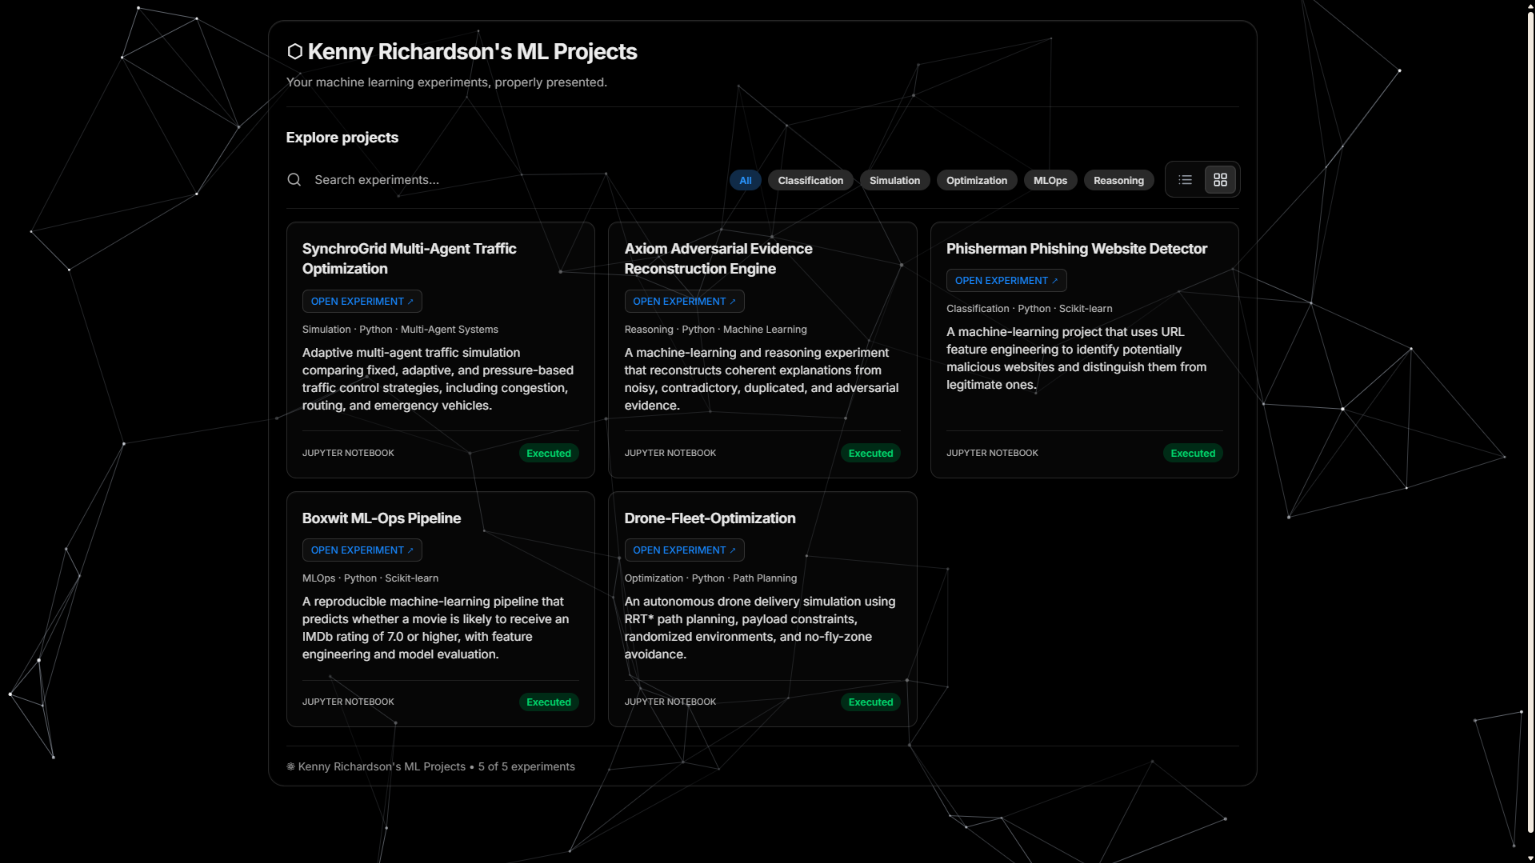
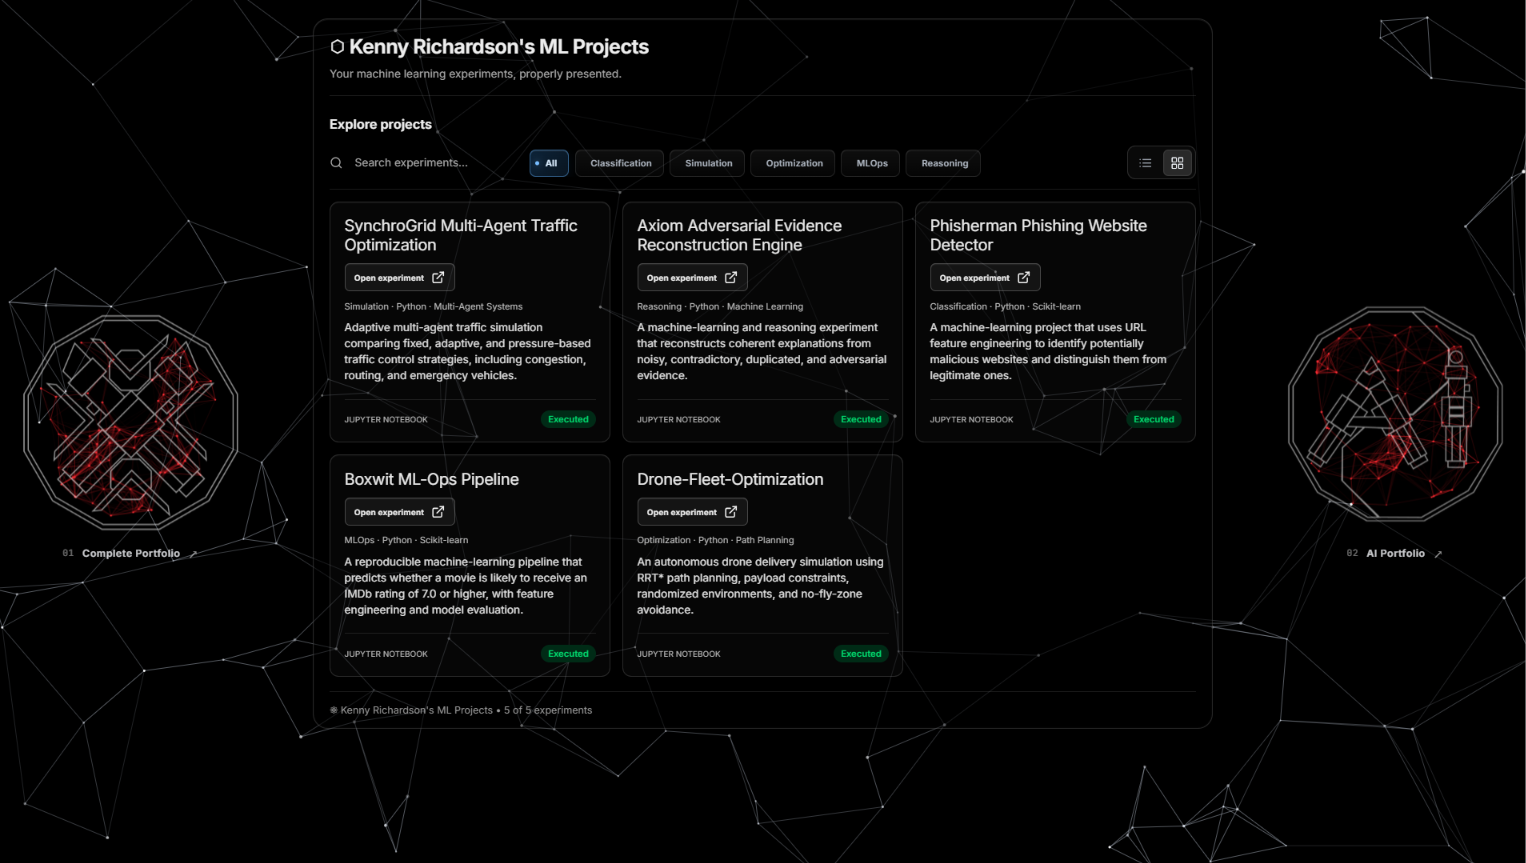
feat: implemented cross-linking

diff --git a/src/NeuralLink.tsx b/src/NeuralLink.tsx
@@ -1,0 +1,229 @@
+import { useEffect, useRef } from "react";
+import { motion } from "framer-motion";
+
+type NeuralLinkProps = {
+  href: string;
+  label: string;
+  index: string;
+  image: string;
+  side: "left" | "right";
+};
+
+type Particle = {
+  x: number;
+  y: number;
+  vx: number;
+  vy: number;
+  radius: number;
+  phase: number;
+};
+
+const RED = "#ff2028";
+
+export function NeuralLink({ href, label, index, image, side }: NeuralLinkProps) {
+  const canvasRef = useRef<HTMLCanvasElement>(null);
+
+  useEffect(() => {
+    const canvas = canvasRef.current;
+    const host = canvas?.parentElement;
+    const context = canvas?.getContext("2d");
+    if (!canvas || !host || !context) return;
+
+    let width = 1;
+    let height = 1;
+    let pixelRatio = 1;
+    let particles: Particle[] = [];
+    let frame = 0;
+    let previous = 0;
+    let elapsed = 0;
+    let disposed = false;
+    const reducedMotion = window.matchMedia("(prefers-reduced-motion: reduce)");
+
+    const random = (min: number, max: number) => min + Math.random() * (max - min);
+
+    const resize = () => {
+      const bounds = host.getBoundingClientRect();
+      width = Math.max(1, bounds.width);
+      height = Math.max(1, bounds.height);
+      pixelRatio = Math.min(window.devicePixelRatio || 1, 1.6);
+      canvas.width = Math.round(width * pixelRatio);
+      canvas.height = Math.round(height * pixelRatio);
+      canvas.style.width = `${width}px`;
+      canvas.style.height = `${height}px`;
+
+      const count = Math.max(64, Math.min(160, Math.round((width * height) / 700)));
+      const radius = Math.min(width, height) * 0.465;
+      const centerX = width / 2;
+      const centerY = height / 2;
+      const vertices = Array.from({ length: 12 }, (_, i) => {
+        const angle = -Math.PI / 2 + (i * Math.PI * 2) / 12;
+        return {
+          x: centerX + Math.cos(angle) * radius,
+          y: centerY + Math.sin(angle) * radius,
+        };
+      });
+
+      const isInside = (x: number, y: number) =>
+        vertices.every((a, i) => {
+          const b = vertices[(i + 1) % vertices.length];
+          return (b.x - a.x) * (y - a.y) - (b.y - a.y) * (x - a.x) >= 0;
+        });
+
+      const randomPoint = () => {
+        let x = centerX;
+        let y = centerY;
+        do {
+          x = random(centerX - radius, centerX + radius);
+          y = random(centerY - radius, centerY + radius);
+        } while (!isInside(x, y));
+        return { x, y };
+      };
+
+      particles = Array.from({ length: count }, () => {
+        const angle = random(0, Math.PI * 2);
+        const speed = random(2, 5.5);
+        const point = randomPoint();
+        return {
+          ...point,
+          vx: Math.cos(angle) * speed,
+          vy: Math.sin(angle) * speed,
+          radius: random(0.55, 1.15),
+          phase: random(0, Math.PI * 2),
+        };
+      });
+    };
+
+    const draw = (time: number) => {
+      if (disposed) return;
+      const delta = previous ? Math.min((time - previous) / 1000, 0.035) : 0;
+      previous = time;
+      elapsed += delta;
+
+      if (!reducedMotion.matches) {
+        const radius = Math.min(width, height) * 0.465;
+        const centerX = width / 2;
+        const centerY = height / 2;
+        const vertices = Array.from({ length: 12 }, (_, i) => {
+          const angle = -Math.PI / 2 + (i * Math.PI * 2) / 12;
+          return {
+            x: centerX + Math.cos(angle) * radius,
+            y: centerY + Math.sin(angle) * radius,
+          };
+        });
+
+        for (const p of particles) {
+          const previousX = p.x;
+          const previousY = p.y;
+          p.x += p.vx * delta;
+          p.y += p.vy * delta;
+
+          // Keep every particle inside the twelve equal sides without drawing
+          // a polygon, border, mask, or decorative layer over the network.
+          for (let i = 0; i < vertices.length; i++) {
+            const a = vertices[i];
+            const b = vertices[(i + 1) % vertices.length];
+            const edgeX = b.x - a.x;
+            const edgeY = b.y - a.y;
+            const side = edgeX * (p.y - a.y) - edgeY * (p.x - a.x);
+
+            if (side < p.radius * Math.hypot(edgeX, edgeY)) {
+              p.x = previousX;
+              p.y = previousY;
+              const normalLength = Math.hypot(edgeX, edgeY) || 1;
+              const nx = -edgeY / normalLength;
+              const ny = edgeX / normalLength;
+              const velocityAlongNormal = p.vx * nx + p.vy * ny;
+              p.vx -= 2 * velocityAlongNormal * nx;
+              p.vy -= 2 * velocityAlongNormal * ny;
+              break;
+            }
+          }
+        }
+      }
+
+      context!.setTransform(pixelRatio, 0, 0, pixelRatio, 0, 0);
+      context!.clearRect(0, 0, width, height);
+
+      const maxDistance = Math.min(width, height) * 0.24;
+      context!.lineWidth = 0.82;
+      context!.lineCap = "round";
+      for (let i = 0; i < particles.length; i++) {
+        const a = particles[i];
+        let links = 0;
+        for (let j = i + 1; j < particles.length; j++) {
+          const b = particles[j];
+          const dx = a.x - b.x;
+          const dy = a.y - b.y;
+          const distance = Math.hypot(dx, dy);
+          if (distance < maxDistance && links < 9) {
+            const alpha = (1 - distance / maxDistance) * 0.58;
+            context!.strokeStyle = `rgba(255, 32, 40, ${alpha})`;
+            context!.beginPath();
+            context!.moveTo(a.x, a.y);
+            context!.lineTo(b.x, b.y);
+            context!.stroke();
+            links++;
+          }
+        }
+      }
+
+      for (const p of particles) {
+        const pulse = 0.72 + Math.sin(elapsed * 1.4 + p.phase) * 0.2;
+        context!.beginPath();
+        context!.arc(p.x, p.y, p.radius * (0.9 + pulse * 0.22), 0, Math.PI * 2);
+        context!.fillStyle = `rgba(255, 48, 55, ${0.55 + pulse * 0.4})`;
+        context!.shadowBlur = 0;
+        context!.fill();
+      }
+      context!.shadowBlur = 0;
+
+      if (!reducedMotion.matches) frame = window.requestAnimationFrame(draw);
+    };
+
+    const observer = new ResizeObserver(resize);
+    observer.observe(host);
+    resize();
+    if (reducedMotion.matches) draw(0);
+    else frame = window.requestAnimationFrame(draw);
+
+    const onMotionChange = () => {
+      window.cancelAnimationFrame(frame);
+      previous = 0;
+      if (reducedMotion.matches) draw(performance.now());
+      else frame = window.requestAnimationFrame(draw);
+    };
+    reducedMotion.addEventListener?.("change", onMotionChange);
+
+    return () => {
+      disposed = true;
+      window.cancelAnimationFrame(frame);
+      observer.disconnect();
+      reducedMotion.removeEventListener?.("change", onMotionChange);
+    };
+  }, []);
+
+  return (
+    <motion.a
+      className={`neural-link neural-link--${side}`}
+      href={href}
+      target="_blank"
+      rel="noopener noreferrer"
+      aria-label={`Open ${label}`}
+      initial={{ opacity: 0, y: 18 }}
+      animate={{ opacity: 1, y: 0 }}
+      whileHover={{ y: -5 }}
+      whileTap={{ scale: 0.985 }}
+      transition={{ duration: 0.45 }}
+    >
+      <span className="neural-link__visual">
+        <canvas ref={canvasRef} aria-hidden="true" />
+        <img className="neural-link__image" src={image} alt="" draggable={false} />
+      </span>
+      <span className="neural-link__caption">
+        <span className="neural-link__number">{index}</span>
+        <span className="neural-link__label">{label}</span>
+        <span className="neural-link__arrow" aria-hidden="true">↗</span>
+      </span>
+    </motion.a>
+  );
+}

diff --git a/src/index.css b/src/index.css
@@ -882,3 +882,97 @@ does not change the pill's width or nudge its neighbours. */
   background: rgba(255,255,255,.045) !important;
   box-shadow: inset 0 1px 2px rgba(255,255,255,.035);
 }
+/* NeuralLink side visuals: transparent artwork, floating motion, no card chrome. */
+.neural-link {
+  position: fixed;
+  z-index: 5;
+  top: calc(50% - 118px);
+  display: flex;
+  flex-direction: column;
+  align-items: center;
+  width: clamp(132px, 18vw, 218px);
+  gap: 10px;
+  color: rgba(245, 247, 250, .9);
+  text-decoration: none;
+  background: transparent;
+  border: 0;
+  border-radius: 0;
+  box-shadow: none;
+  outline-offset: 6px;
+}
+.neural-link--left { left: clamp(12px, 1.4vw, 26px); }
+.neural-link--right { right: clamp(12px, 1.4vw, 26px); }
+.neural-link__visual {
+  position: relative;
+  display: block;
+  width: 100%;
+  aspect-ratio: 1 / 1;
+  overflow: visible;
+  isolation: isolate;
+  background: transparent;
+  border: 0;
+  box-shadow: none;
+  animation: neural-link-float 6.2s ease-in-out infinite;
+}
+.neural-link--right .neural-link__visual { animation-delay: -2.7s; }
+.neural-link__visual canvas {
+  position: absolute;
+  z-index: 0;
+  inset: 0;
+  width: 100%;
+  height: 100%;
+  display: block;
+  background: transparent;
+  pointer-events: none;
+}
+.neural-link__image {
+  position: absolute;
+  z-index: 1;
+  inset: 0;
+  display: block;
+  width: 100%;
+  height: 100%;
+  object-fit: contain;
+  opacity: .56;
+  background: transparent;
+  border: 0;
+  border-radius: 0;
+  box-shadow: none;
+  transition: opacity .3s ease, transform .3s ease;
+}
+.neural-link:hover .neural-link__image,
+.neural-link:focus-visible .neural-link__image { opacity: .78; transform: scale(1.035); }
+.neural-link__caption {
+  display: flex;
+  align-items: center;
+  justify-content: center;
+  gap: 8px;
+  width: 100%;
+  min-height: 22px;
+  padding: 0;
+  color: rgba(245, 247, 250, .82);
+  background: transparent;
+  border: 0;
+  box-shadow: none;
+  font-size: 10px;
+  font-weight: 600;
+  letter-spacing: .045em;
+  text-align: center;
+  white-space: nowrap;
+}
+.neural-link__number { color: rgba(255, 255, 255, .42); font: 9px "JetBrains Mono", monospace; }
+.neural-link__label { color: inherit; }
+.neural-link__arrow { color: rgba(255, 255, 255, .58); font-size: 13px; transition: transform .25s ease, color .25s ease; }
+.neural-link:hover .neural-link__arrow { color: #fff; transform: translate(3px, -2px); }
+.neural-link:focus-visible { outline: 1px solid rgba(255,255,255,.65); }
+@keyframes neural-link-float {
+  0%, 100% { transform: translate3d(0, 0, 0); }
+  50% { transform: translate3d(0, -11px, 0); }
+}
+@media (max-width: 760px) {
+  .neural-link { display: none; }
+}
+@media (prefers-reduced-motion: reduce) {
+  .neural-link__visual { animation: none; }
+  .neural-link__image, .neural-link__arrow { transition: none; }
+}

diff --git a/src/App.tsx b/src/App.tsx
@@ -1,4 +1,5 @@
 import ParticleNetwork from "./ParticleNetwork";
+import { NeuralLink } from "./NeuralLink";
 import { useEffect, useLayoutEffect, useMemo, useRef, useState } from "react";
 import { ArrowLeft, ChevronUp, BookOpen, Code2, FileCode2, Search, LayoutGrid, List, Github, NotebookText, ExternalLink } from "lucide-react";
 import { createPortal } from "react-dom";
@@ -420,8 +421,24 @@ export default function App() {
 
   return (
     <>
-      <ParticleNetwork opacity={0.9} speed={0.65} density={1} />
+      <ParticleNetwork opacity={0.9} speed={0.65} density={1.38} />
       <div className="particle-network-content">
+        {!selectedProject && <>
+          <NeuralLink
+            href="https://kennykrichardson.onrender.com"
+            label="Complete Portfolio"
+            index="01"
+            image="/neural-link-left.png"
+            side="left"
+          />
+          <NeuralLink
+            href="https://kennykrichardson-ml.onrender.com"
+            label="AI Portfolio"
+            index="02"
+            image="/neural-link-right.png"
+            side="right"
+          />
+        </>}
         {selectedProject
           ? <ProjectDetail project={selectedProject} onBack={closeProject} />
           : <Home onOpen={openProject} />}
